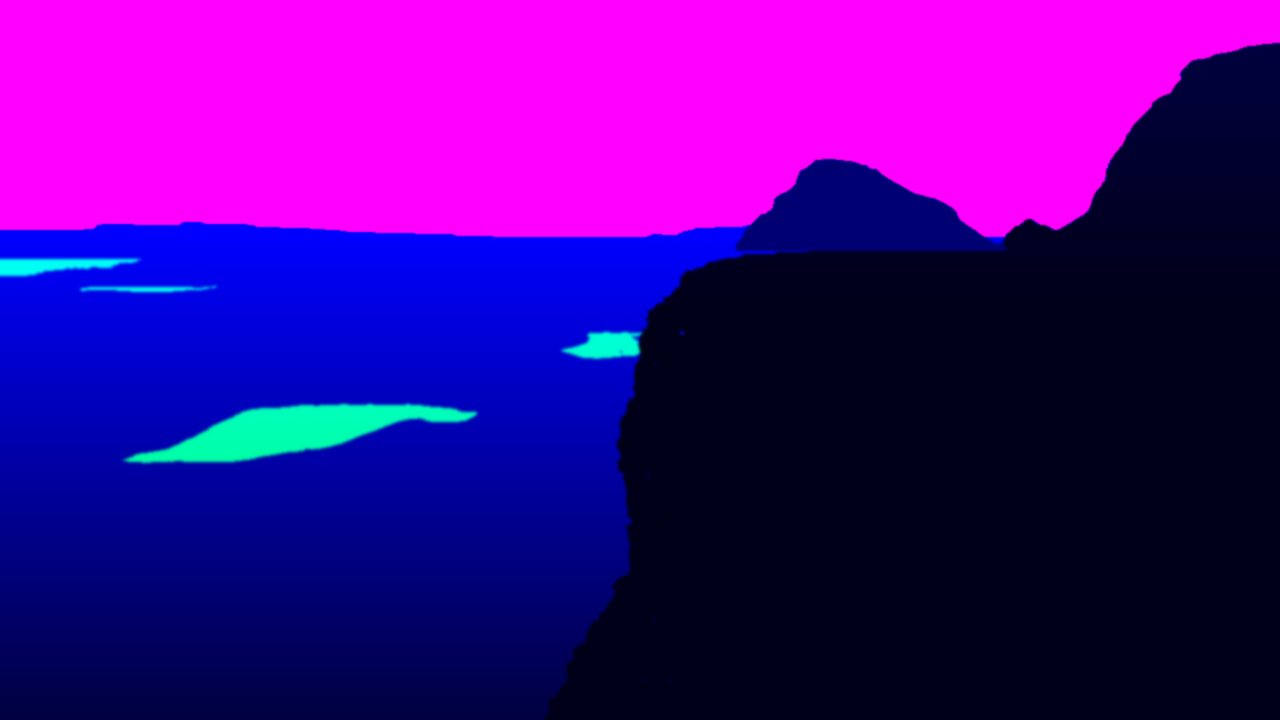
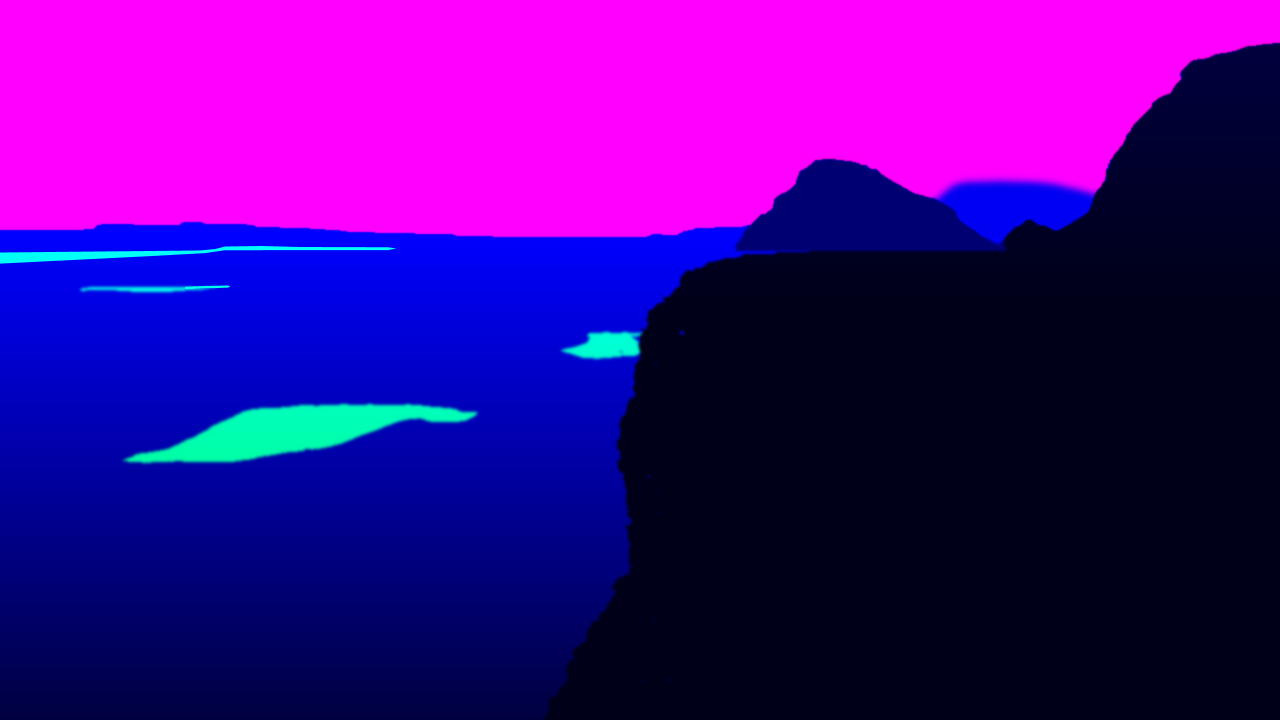
Hero: keep the walker in front of the sky, the misty far mountain as land, the far sea as water
- The walker's head turned blue/orange/white when he stepped up against the sky: the shader now
  finds him by comparing each frame with a still of that patch of sky (images/hero-walk.png)
- The faint mountain between the peaks was in the sky mask (a hole of blue sky in clear weather);
  it's now far-off land, a hazy blue hill on a clear day
- Clear weather: no pale or blue rim along the ridges
- The strip of sea on the horizon is in the loch mask (and the far-left loch outline moved up ~6px
  to where it really is); distant water is paler in clear weather

Changed region(s): [[0.7188, 0.2444, 0.875, 0.3361], [0.0, 0.3361, 0.3125, 0.3972]]

diff --git a/sun.js b/sun.js
@@ -1,10 +1,11 @@
 // Homepage hero: a sun behind the clouds that follows the mouse while it's over the sky, and
-// relights the landscape to match. Drawn with WebGL over the hero video, using two maps made from
-// the still landscape: images/hero-masks.png (R = sky, G = lochs, B = distance) and images/hero-snow.png
-// (where snow can settle). (Not packed into the masks' alpha: browsers drop the colour of fully transparent
-// pixels, which erased the sky.) The land itself is never
-// shaded: light shows only in the sky and as reflections on the lochs. Clicking the hero changes the
-// weather. Without WebGL, or with reduced motion, the plain video stays.
+// relights the landscape to match. Drawn with WebGL over the hero video, using maps made from the
+// still landscape: images/hero-masks.png (R = sky, G = lochs, B = distance), images/hero-snow.png
+// (where snow can settle) and images/hero-walk.png (the sky behind the walker, to keep him in front
+// of it). (The snow map isn't packed into the masks' alpha: browsers drop the colour of fully
+// transparent pixels, which erased the sky.) The land itself is never shaded: light shows only in the
+// sky and as reflections on the lochs. Clicking the hero changes the weather. Without WebGL, or with
+// reduced motion, the plain video stays.
 (function () {
   var hero = document.querySelector('.hero');
   var video = hero && hero.querySelector('.hero-clip');
@@ -27,7 +28,7 @@
   var fs = [
     'precision highp float;',
     'varying vec2 vUv;',
-    'uniform sampler2D uVideo, uMasks, uSnowHold;',
+    'uniform sampler2D uVideo, uMasks, uSnowHold, uWalk;',
     'uniform vec2 uScale, uOffset, uSun;',
     'uniform float uAspect, uTime;',
     'uniform vec2 uRes;                                      // canvas size in pixels',
@@ -77,6 +78,20 @@
     '  vec3 m = texture2D(uMasks, uv).rgb;',
     '  float hold = texture2D(uSnowHold, uv).r;              // can this spot hold snow?',
     '  float sky = m.r, water = m.g, dist = m.b;',
+    // the walker: where he steps up against the sky, keep him in front of it. Found by comparing the frame
+    // with a still of that patch of sky (images/hero-walk.png: x 720-832, y 170-250 of the 1280x720 clip)
+    '  vec2 wq = (uv - vec2(0.5625, 0.2361)) / vec2(0.0875, 0.1111);',
+    '  if (wq.x > 0.0 && wq.x < 1.0 && wq.y > 0.0 && wq.y < 1.0 && sky > 0.0) {',
+    '    float dw = 0.0;',
+    '    for (int k = 0; k < 5; k++) {                         // a pixel either side, so his outline is covered',
+    '      vec2 o = k == 0 ? vec2(0.0) : vec2(k == 1 ? 1.0 : k == 2 ? -1.0 : 0.0, k == 3 ? 1.0 : k == 4 ? -1.0 : 0.0);',
+    '      vec3 e = abs(texture2D(uVideo, uv + o / vec2(1280.0, 720.0)).rgb - texture2D(uWalk, wq + o / vec2(112.0, 80.0)).rgb);',
+    '      dw = max(dw, max(e.r, max(e.g, e.b)));',
+    '    }',
+    '    float walker = smoothstep(0.11, 0.20, dw);',
+    '    sky *= 1.0 - walker;',
+    '    dist = mix(dist, 0.15, walker);',
+    '  }',
     '  vec3 sunCol = vec3(1.0, 0.92, 0.78);',
     '  vec2 d = (uv - uSun) * vec2(uAspect, 1.0);          // offset from the sun, in frame heights',
     '  float r = length(d);',
@@ -98,10 +113,17 @@
     '  float land = 1.0 - sky;',
     // clear day: open up blue sky behind the thinner cloud, keep the bright clouds as clouds
     '  vec3 blue = mix(vec3(0.20, 0.40, 0.74), vec3(0.55, 0.70, 0.88), pow(clamp(uv.y / 0.32, 0.0, 1.0), 1.5));',
-    '  float cloud = smoothstep(0.66, 0.90, lum);',
-    '  vec3 cloudCol = mix(col * 0.85, min(col * 1.22, vec3(1.0)), smoothstep(0.75, 0.92, lum));   // white tops, grey bases',
-    '  col = mix(col, mix(blue, cloudCol, cloud), uClear * sky);',
-    '  col = mix(col, vec3(0.20, 0.33, 0.52) + 0.25 * (col - 0.6), uClear * water * 0.75);   // lochs reflect the blue',
+    '  vec3 sc = col;                                         // on a ridge edge, judge the sky by its nearest pure-sky pixel',
+    '  if (sky > 0.02 && sky < 0.9) {',
+    '    for (int k = 0; k < 8; k++) {',
+    '      vec2 o = vec2(cos(float(k) * 0.785398), sin(float(k) * 0.785398)) * vec2(2.5 / 1280.0, 2.5 / 720.0);',
+    '      if (texture2D(uMasks, uv + o).r > 0.9) { sc = texture2D(uVideo, uv + o).rgb; break; }',
+    '    }',
+    '  }',
+    '  float cloud = smoothstep(0.66, 0.90, luma(sc));',
+    '  vec3 cloudCol = mix(sc * 0.85, min(sc * 1.22, vec3(1.0)), smoothstep(0.75, 0.92, luma(sc)));   // white tops, grey bases',
+    '  col = mix(col, mix(blue, cloudCol, cloud), uClear * smoothstep(0.0, 0.55, sky));   // right up to the ridge, so no rim',
+    '  col = mix(col, mix(vec3(0.20, 0.33, 0.52), vec3(0.52, 0.64, 0.80), smoothstep(0.75, 1.0, dist)) + 0.25 * (col - 0.6), uClear * water * 0.75);   // lochs reflect the blue (paler far off)',
     '  vec3 lit = col;                                       // (no shading on the land)',
     // the sun's reflection: a glint on the lochs below it
     '  float under = exp(-pow((uv.x - uSun.x) * uAspect / 0.10, 2.0));',
@@ -115,6 +137,9 @@
     // clear: a touch brighter and more saturated; golden: warm cast, warmest low in the sky
     '  lit = mix(vec3(g), lit, 1.0 + 0.10 * uClear);',
     '  lit = mix(lit, ((lit - 0.42) * (1.0 + 0.28 * land * (0.4 + dist)) + 0.40) * mix(vec3(1.0), vec3(0.94, 0.98, 0.93), land), uClear);   // crisper, less hazy, deeper greens',
+    '  lit = mix(lit, vec3(0.66, 0.75, 0.86), uClear * land * smoothstep(0.80, 1.0, dist) * 0.30);   // the far hills fade blue',
+    '  float farMtn = step(0.7234, uv.x) * step(uv.x, 0.8672) * step(uv.y, 0.3472) * smoothstep(0.88, 0.94, dist) * smoothstep(0.0, 0.35, land);',   // (fully tinted early, so its misty edge has no pale rim)
+    '  lit = mix(lit, vec3(0.50, 0.57, 0.68) + (lum - 0.70) * 2.5, uClear * farMtn * 0.85);   // the misty mountain between the peaks: a distant blue hill',
     '  float hz = smoothstep(0.04, 0.31, uv.y);                 // 1 near the horizon, 0 overhead',
     '  lit *= mix(vec3(1.0), mix(vec3(0.80, 0.66, 0.52), vec3(1.10, 0.94, 0.78), sky), uGolden);   // land: dimmer, warm',
     '  lit = mix(lit, lit * vec3(0.72, 0.74, 0.92), uGolden * sky * (1.0 - hz));           // cooler sky overhead',
@@ -200,7 +225,7 @@
     gl.uniform1i(gl.getUniformLocation(prog, name), unit);
     return t;
   }
-  var tVideo = texture(0, 'uVideo'), tMasks = texture(1, 'uMasks'), tSnow = texture(2, 'uSnowHold');
+  var tVideo = texture(0, 'uVideo'), tMasks = texture(1, 'uMasks'), tSnow = texture(2, 'uSnowHold'), tWalk = texture(3, 'uWalk');
   gl.pixelStorei(gl.UNPACK_PREMULTIPLY_ALPHA_WEBGL, false);
   gl.pixelStorei(gl.UNPACK_COLORSPACE_CONVERSION_WEBGL, gl.NONE);   // masks are data, not a picture
   var u = {};
@@ -245,10 +270,10 @@
   // the sky mask, kept small on the side, to know whether the mouse is over the sky
   var skyData = null, SKY_W = 160, SKY_H = 90;
   var loaded = 0;
-  function load(src, tex, keepSky) {
+  function load(src, unit, tex, keepSky) {
     var img = new Image();
     img.onload = function () {
-      gl.activeTexture(tex === tMasks ? gl.TEXTURE1 : gl.TEXTURE2);
+      gl.activeTexture(gl.TEXTURE0 + unit);
       gl.bindTexture(gl.TEXTURE_2D, tex);
       gl.texImage2D(gl.TEXTURE_2D, 0, gl.RGB, gl.RGB, gl.UNSIGNED_BYTE, img);
       if (keepSky) {
@@ -260,8 +285,9 @@
     };
     img.src = src;
   }
-  load('images/hero-masks.png?v=202610221608', tMasks, true);
-  load('images/hero-snow.png?v=202610221608', tSnow, false);
+  load('images/hero-masks.png?v=202610221704', 1, tMasks, true);
+  load('images/hero-snow.png?v=202610221608', 2, tSnow, false);
+  load('images/hero-walk.png?v=202610221704', 3, tWalk, false);
 
   // object-fit: cover, done by hand: which part of the video the canvas shows
   var scale = [1, 1], offset = [0, 0];
@@ -301,6 +327,7 @@
     };
     window.holdFlash = function (v, x, seed, yEnd, land) { heldFlash = v; if (x !== undefined) bolt = [x, seed || 1, yEnd || 0.30, land || 0]; };
     window.getWeather = function () { return { weather: weather, mix: JSON.parse(JSON.stringify(mix)) }; };
+    window.drawNow = function () { frame(performance.now()); };   // for a throttled (background) test tab
   }
 
   var visible = true;
@@ -313,7 +340,7 @@
   function frame(now) {
     requestAnimationFrame(frame);
     var dt = Math.min(0.25, (now - last) / 1000); last = now;   // easing by time, not frames
-    if (!visible || loaded < 2 || video.readyState < 2) return;
+    if (!visible || loaded < 3 || video.readyState < 2) return;
     var ks = 1 - Math.exp(-dt / 0.28), kw = 1 - Math.exp(-dt / 0.75);
     sun[0] += (target[0] - sun[0]) * ks;                              // the sun eases after the mouse
     sun[1] += (target[1] - sun[1]) * ks;

diff --git a/index.html b/index.html
@@ -57,6 +57,6 @@
   </ul>
 </footer>
 <script src="script.js?v=202610221608"></script>
-<script src="sun.js?v=202610221611"></script>
+<script src="sun.js?v=202610221704"></script>
 </body>
 </html>
